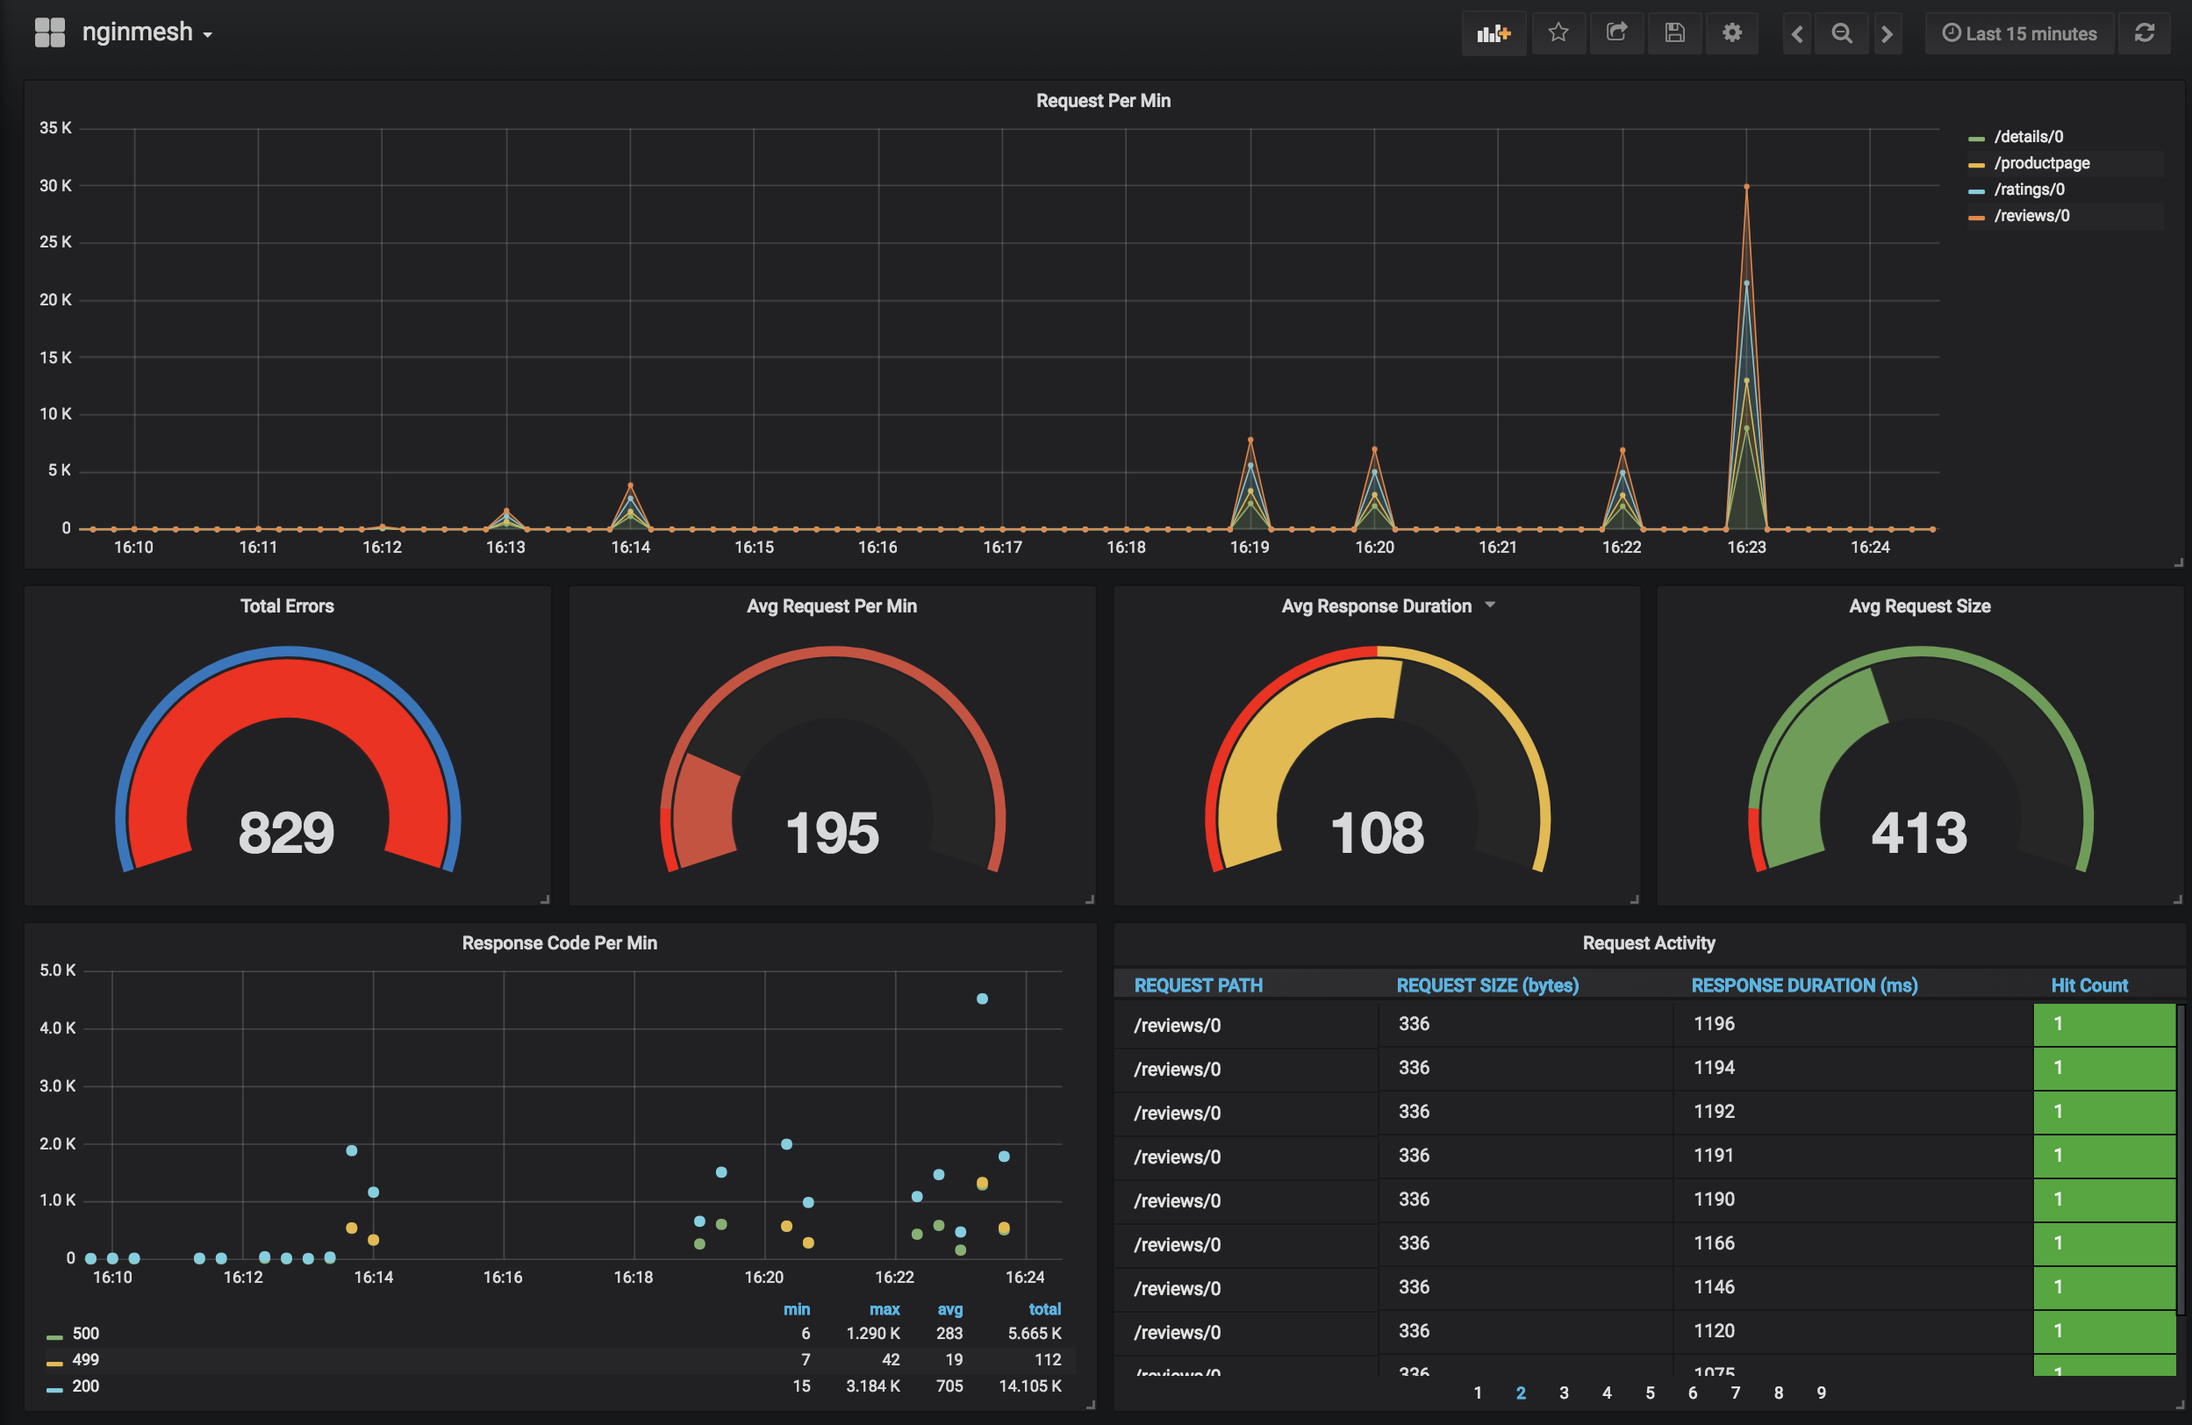
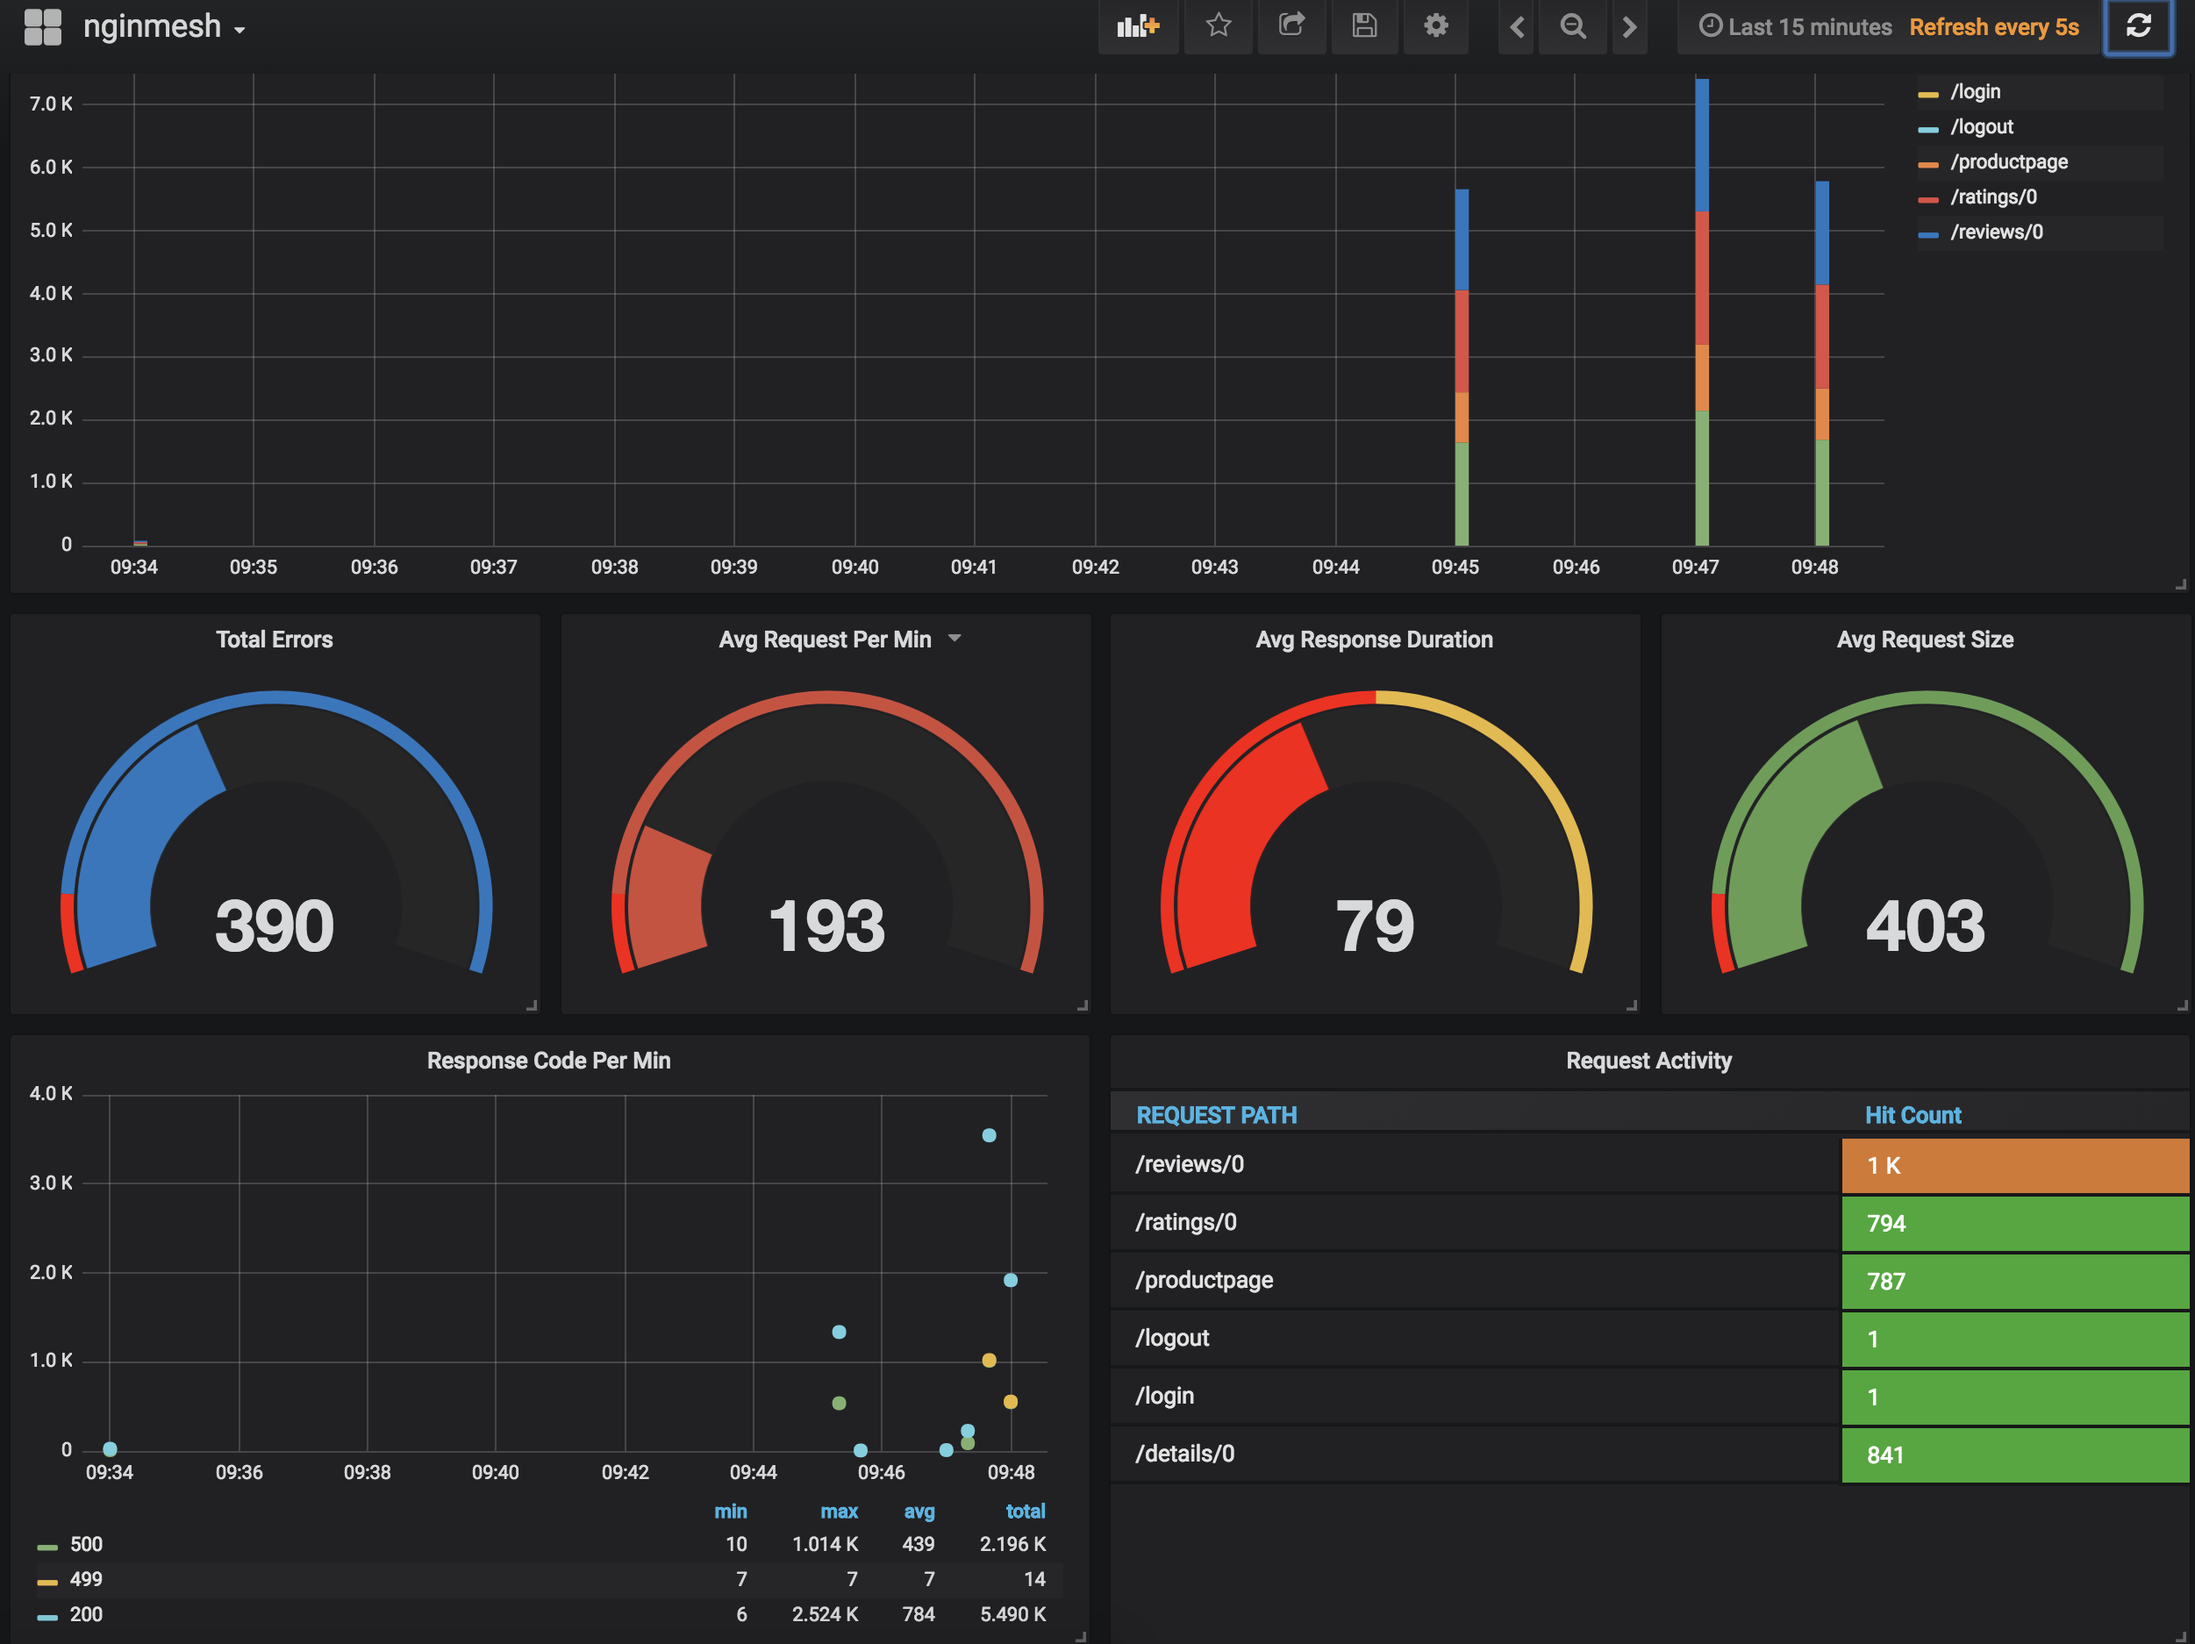
Update Dashboard_Conf, README (#48)
* 1.  instead of having line chart, convert to bar chart for “request per min” chart
2. request activity chart should not be event chart.  it should be summary of hit counts for each of the request path
3. auto refresh still not set.
4.  create shell script to run ‘create.sql’ and run ‘/ksql-tables-to-grafana.sh’ for all tables
5.  create script to generate loads

* Dashboard image update

* Update README

diff --git a/istio/release/demo/ksql/README.md b/istio/release/demo/ksql/README.md
@@ -16,6 +16,7 @@ Make sure below requirements are met:
   |1.5.0|Bookinfo Application|[link](https://github.com/istio/istio/blob/master/samples/bookinfo/src)|
   |1.1.0|Kafka|[link](https://kafka.apache.org/downloadsc)|
   |2.9.0|Helm|[link](https://docs.helm.sh/using_helm/)|
+  |4.1.0| Wrk|[link](https://github.com/wg/wrk)| 
 
 ### Install 
 
@@ -29,23 +30,18 @@ kubectl create -f ../../install/kafka/connect.yml
 kubectl create -f ../../install/kafka/ksql.yml
 ```
 
-3. Download and install KSQL client from this [link](https://www.confluent.io/download/). Update $PATH variable either in .bash_profile or .bashrc by adding /bin directory of KSQL.
+3. Download and install KSQL client from this [link](https://www.confluent.io/download/). Update $PATH variable either in .bash_profile or .bashrc to include /bin directory of KSQL.
 
-4. Start KSQL CLI and run sql script to create nginmesh stream and tables:
-```
-ksql run script 'create.sql';
-```
-
-5. Install Elasticsearch  in the namespace 'elastic':
+4. Install Elasticsearch  in the namespace 'elastic':
 ```
 ./install-elastic.sh
 ```
 
-6. Install Grafana in the namespace 'kafka':
+5. Install Grafana in the namespace 'kafka':
 ```
 ./install-grafana.sh
 ```
-7. Make sure all pods and services are up and running:
+6. Make sure all pods and services are up and running:
 ```
 kubectl get pods -n kafka
 ```
@@ -76,17 +72,15 @@ elastic-elasticsearch-master-1                  1/1       Running   1          3
 elastic-elasticsearch-master-2                  1/1       Running   0          3d
 ```
 
-8. Run following script to activate port-forwarding for ksql, connect, elasticsearch and grafana to localhost:
+7. Run following script to activate port-forwarding for ksql, connect, elasticsearch and grafana to localhost:
 
 ```
 ./all-portforward.sh
 ```
 
-9. Run following scripts to send the KSQL tables to Elasticsearch and Grafana:
+8. Run following script to create nginMesh stream and tables which will be pushed to Elasticsearch and Grafana:
 ```
-./ksql-tables-to-grafana.sh request_per_min
-./ksql-tables-to-grafana.sh errors_per_min_alert
-./ksql-tables-to-grafana.sh request_activity
+./install_metrics.sh
 ```
 
 ### Visualize metrics in Grafana
@@ -102,7 +96,10 @@ elastic-elasticsearch-master-2                  1/1       Running   0          3
 
 ![Alt text](images/import_dashboard.png?raw=true "Import Dashboard")
 
-4. Generate few requests towards sample application deployed and make sure all widgets shows data accordingly:
+4. Generate requests towards sample application deployed and make sure all widgets show data accordingly. Below script could be used in Istio default Bookinfo application case:
+```
+./gen_load.sh
+```
 
 ![Alt text](images/dashboard.png?raw=true "Grafana Dashboard")
 
